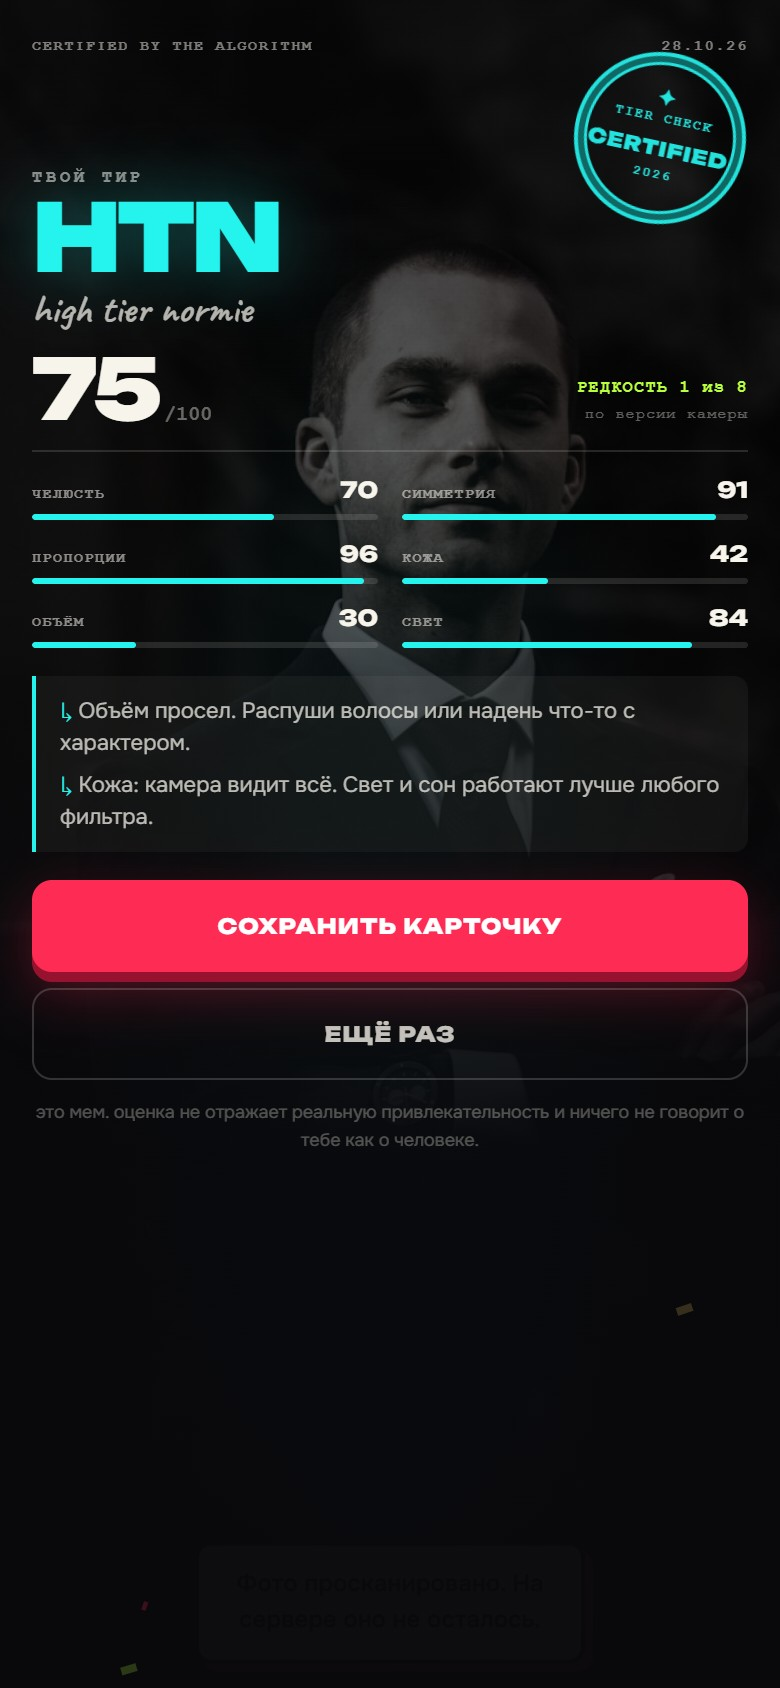
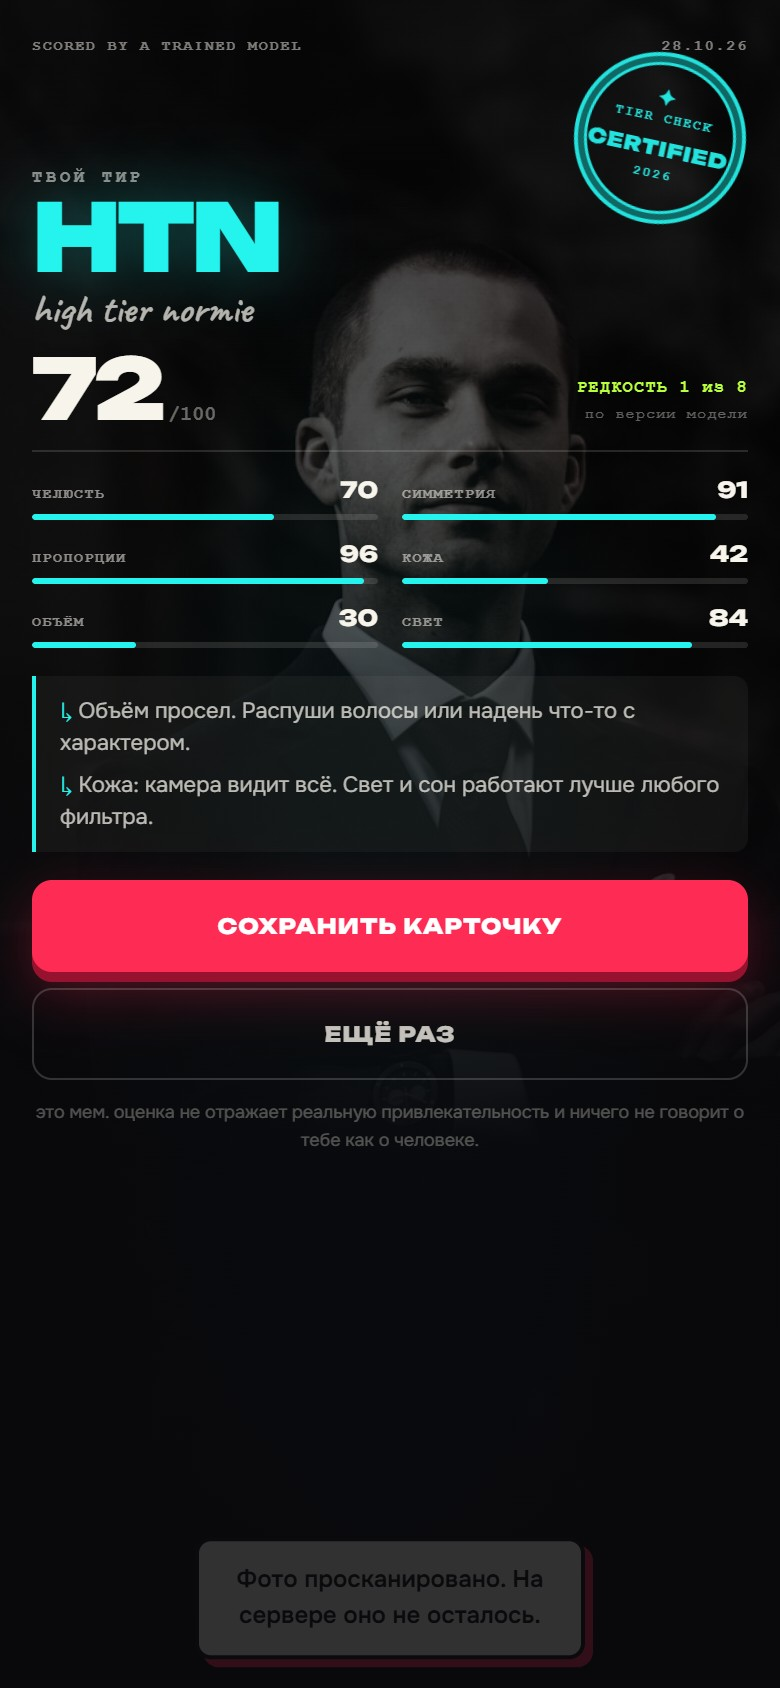
docs: document trained scoring model and refresh UI

diff --git a/app/static/index.html b/app/static/index.html
@@ -384,7 +384,7 @@
             <div class="result-shade" aria-hidden="true"></div>
             <div class="result-scroll" id="resultScroll">
               <div class="result-topline">
-                <span>CERTIFIED BY THE ALGORITHM</span>
+                <span>SCORED BY A TRAINED MODEL</span>
                 <span id="resultDate">01.01.26</span>
               </div>
               <div class="stamp" id="resultStamp" aria-hidden="true">
@@ -400,7 +400,7 @@
                 <div class="score-big"><span id="resultScore">0</span><small>/100</small></div>
                 <div class="score-meta">
                   <span id="resultRarity">—</span>
-                  <span>по версии камеры</span>
+                  <span>по версии модели</span>
                 </div>
               </div>
               <div class="result-stats" id="resultStats"></div>
@@ -441,7 +441,7 @@
   <footer class="footer">
     <div>
       <strong>TIER CHECK</strong>
-      <span>мем-сканер лица на Python + FastAPI + OpenCV</span>
+      <span>мем-сканер лица на Python + FastAPI + OpenCV + NumPy</span>
     </div>
     <div class="footer-right">
       <span>фото не сохраняется на сервере</span>

diff --git a/app/static/app.js b/app/static/app.js
@@ -946,7 +946,7 @@
     ctx.fillText("Это мем, а не диагноз. Оценка не отражает реальную привлекательность.", 64, height - 76);
     ctx.fillStyle = color;
     ctx.font = '700 20px "Courier New", monospace';
-    ctx.fillText("TIERCHECK · FASTAPI + OPENCV", 64, height - 40);
+    ctx.fillText("TIERCHECK · TRAINED NUMPY MODEL", 64, height - 40);
 
     return offscreen;
   }

diff --git a/docs/scoring.md b/docs/scoring.md
@@ -1,0 +1,148 @@
+# Модель оценки TIER CHECK
+
+Версия модели: **`tier-check-score-1.0.0`**  
+Версия рубрики: **`2026.10`**  
+Артефакты: [`app/models/score_model.npz`](../app/models/score_model.npz),
+[`app/models/score_model.json`](../app/models/score_model.json)  
+Скрипт обучения: [`training/train_score_model.py`](../training/train_score_model.py)
+
+> Это мем-приложение. Модель не оценивает реальную привлекательность человека,
+> не обучалась на фотографиях или человеческих оценках и не является медицинским
+> инструментом.
+
+## Зачем модель
+
+Раньше итоговый балл складывался из эвристик и стабильного хеш-джиттера. Из-за
+джиттера один и тот же кадр мог получить немного разные баллы, а формула выглядела
+как случайность. Теперь:
+
+1. Шесть метрик считаются по изображению (см. ниже).
+2. Метрики округляются до целых — ровно те числа, которые видит пользователь.
+3. Обученная NumPy-модель превращает эти шесть чисел в балл `1…100`.
+4. Балл детерминирован: одинаковые шесть чисел всегда дают одинаковый результат.
+   Хешей, seed и случайного джиттера в оценке больше нет.
+
+## Шесть метрик
+
+| Ключ | Подпись | Вес | Что измеряет изображение |
+| --- | --- | ---: | --- |
+| `jaw` | ЧЕЛЮСТЬ | 24% | контраст линии подбородка и нижней трети |
+| `symmetry` | СИММЕТРИЯ | 18% | смещение носа и рта относительно глаз |
+| `harmony` | ПРОПОРЦИИ | 22% | соотношение сторон лица, положение глаз и рта |
+| `skin` | КОЖА | 16% | текстура и равномерность света на щеках |
+| `hair` | ОБЪЁМ | 10% | края и текстура волос над лицом |
+| `light` | СВЕТ | 10% | яркость, контраст, пересветы и провалы |
+
+Все метрики нормированы в `0…100`. Они описывают **кадр**, а не человека:
+свет, ракурс, камера и причёска влияют на них сильнее любых реальных черт.
+
+## Публичная рубрика
+
+Рубрика — это «правила игры», по которым сгенерированы метки для обучения.
+Она специально простая и объяснимая.
+
+```text
+base        = 0.24*jaw + 0.18*symmetry + 0.22*harmony
+            + 0.16*skin + 0.10*hair + 0.10*light
+weakest     = min(jaw, symmetry, harmony, skin, hair, light)
+consistency = 2.5 * smoothstep(weakest, 25, 85)
+light_gate  = 0.82 + 0.18 * smoothstep(light, 12, 60)
+penalty     = max(0, 30 - weakest) * 0.18
+score       = 7 + 0.90 * (base + consistency) * light_gate - penalty
+score       = clip(score, 1, 99)
+```
+
+`Smoothstep(x, a, b)` — плавная S-образная функция от 0 до 1. Она даёт бонус за
+ровные метрики и мягко ограничивает вклад тёмного кадра.
+
+### Тировые предохранители
+
+Средний балл не должен прятать один проваленный параметр:
+
+- если самая слабая метрика **меньше 45**, балл ограничивается **81.9** —
+  в `CHAD` нельзя попасть с провалом;
+- если самая слабая метрика **меньше 65**, балл ограничивается **92.9** —
+  в `TRUE ADAM` нужны все шесть метрик на уровне.
+
+Предохранители применяются и к рубрике, и к выходу модели.
+
+## Нейросеть
+
+Модель — маленький полносвязный MLP:
+
+```text
+6 → 32 (ReLU) → 24 (ReLU) → 1
+```
+
+- Вход: шесть метрик, делённых на 100.
+- Выход: балл в долях единицы, умножается на 100 и обрезается до `1…99`.
+- Инференс: только NumPy, без PyTorch/TensorFlow и без внешних API.
+- Параметры: `w1, b1, w2, b2, w3, b3, feature_scale` в `score_model.npz`.
+- Метаданные и модельная карта: `score_model.json`.
+
+Модель учится **воспроизводить рубрику**, а не угадывать человеческую красоту.
+Это компактная и стабильная аппроксимация формулы, которую можно объяснить.
+
+## Обучение
+
+| Параметр | Значение |
+| --- | --- |
+| Обучающие данные | 80 000 синтетических векторов из шести метрик |
+| Метки | баллы публичной рубрики |
+| Разбиение | 60 000 / 10 000 / 10 000 (train / val / test) |
+| Эпохи | 180 |
+| Батч | 512 |
+| Оптимизатор | Adam, learning rate `2e-3` |
+| Seed | `20261028` |
+| Функция потерь | MSE по нормированному баллу |
+
+Данные не содержат фотографий, имён, лиц или человеческих оценок
+привлекательности. Используются только синтетические числа, равномерное
+покрытие диапазона и краевые случаи (слабые/сильные наборы и «одна проваленная
+метрика»).
+
+Воспроизвести артефакты:
+
+```bash
+python -m training.train_score_model
+```
+
+Скрипт перезаписывает `app/models/score_model.npz`, `app/models/score_model.json`
+и `training/report.json`.
+
+## Метрики качества
+
+Результаты на отложенной тестовой выборке (10 000 векторов):
+
+| Метрика | Значение |
+| --- | ---: |
+| Test MAE | **0.215 балла** |
+| Максимальная абсолютная ошибка | **2.80 балла** |
+| R² | **0.9995** |
+| Локальные нарушения монотонности | 15 из 10 000 проверок |
+| Максимальное падение при улучшении метрики | **0.50 балла** |
+
+Модель практически монотонна: в 99.85% случайных проверок увеличение одной
+метрики не уменьшает балл. Остаточные отклонения — цена аппроксимации
+непрерывной формулы нейросетью; они детерминированы и ограничены половиной
+балла. Тест в `tests/test_scoring.py` требует, чтобы локальное падение было
+меньше одного балла.
+
+## Якорные значения
+
+| Набор метрик | Рубрика | Модель |
+| --- | ---: | ---: |
+| `[70, 91, 96, 42, 30, 84]` — демо-портрет | 72.2 | 71.5 |
+| `[70, 70, 70, 70, 70, 70]` — ровный средний | 71.9 | 71.6 |
+| `[20, 20, 20, 20, 20, 20]` — слабый кадр | 20.2 | 19.6 |
+| `[95, 95, 95, 95, 95, 95]` — элитный кадр | 94.8 | 95.2 |
+| `[95, 95, 95, 95, 95, 40]` — один провал | 81.9 | 81.9 |
+
+## Ограничения
+
+- Рубрика придумана для мема; у неё нет научного обоснования.
+- Метрики измеряют картинку, а не человека: свет и ракурс меняют балл.
+- Модель не проверялась на реальных людях и не подходит для решений о человеке.
+- Балл — не вероятность и не процент «красоты». Это игровое число `1…100`.
+- Модель аппроксимирует рубрику, поэтому возможны отклонения до ~3 баллов
+  и редкие локальные падения до 0.5 балла.

diff --git a/README.md b/README.md
@@ -3,9 +3,9 @@
 **Мем-сканер лица: одна фотка, семь тиров, ноль жалости.**
 
 TIER CHECK — это маленькое веб-приложение на Python, которое делает вид, что умеет
-оценивать лица по тир-листу из мемов. Внутри — FastAPI, OpenCV YuNet и набор
-эвристик. Снаружи — тёмный «тиктокерский» интерфейс, камера, мемные комментарии
-и карточка результата, которой можно поделиться.
+оценивать лица по тир-листу из мемов. Внутри — FastAPI, OpenCV YuNet и обученная
+NumPy-модель оценки. Снаружи — тёмный «тиктокерский» интерфейс, камера, мемные
+комментарии и карточка результата, которой можно поделиться.
 
 > **Это мем, а не диагноз.** Оценка не измеряет реальную привлекательность,
 > не говорит ничего о человеке и не должна восприниматься серьёзно.
@@ -18,6 +18,8 @@ TIER CHECK — это маленькое веб-приложение на Python
 - **Загрузка фото** — JPG, PNG или WEBP до 8 МБ, с drag-and-drop.
 - **Семь тиров** — от `SUB 3` до `TRUE ADAM`, как на мемной схеме.
 - **Разбор по шести параметрам** — челюсть, симметрия, пропорции, кожа, объём, свет.
+- **Обученная модель оценки** — небольшой NumPy-MLP превращает шесть метрик в
+  детерминированный балл `1…100`.
 - **Мемные заметки** — что алгоритм «увидел» и что с этим делать (спойлер: свет).
 - **Карточка результата** — PNG 1080×1350 для сторис, скачивается одной кнопкой.
 - **Локальная работа** — фото обрабатывается в памяти и никуда не сохраняется.
@@ -89,11 +91,14 @@ docker run --rm -p 8000:8000 tier-check
    | Объём | 10% | края и текстура волос над лицом |
    | Свет | 10% | яркость, контраст, пересветы |
 
-5. Итог: `13 + 0.85 × сумма` плюс стабильный джиттер ±1.5, затем обрезка до
-   диапазона `1…99.4`. Одинаковое фото даёт одинаковый результат.
+5. Числа округляются до целых и попадают в обученную NumPy-модель
+   `6 → 32 → 24 → 1`, которая выдаёт итоговый балл `1…100`.
+6. Балл детерминирован: одинаковые шесть чисел всегда дают одинаковый результат.
+   Хешей и случайного джиттера в оценке больше нет.
 
-Всё это — **эвристики для мема**, а не нейросеть, обученная оценивать красоту.
-Алгоритм легко обмануть светом, ракурсом и шириной кадра. В этом и смысл.
+Модель обучена воспроизводить придуманную рубрику на синтетических числах, а не
+оценивать человеческую красоту. Метрики описывают кадр, поэтому свет, ракурс и
+камера влияют на них сильнее реальных черт. Подробности: [`docs/scoring.md`](docs/scoring.md).
 
 ## Тиры
 
@@ -113,7 +118,7 @@ docker run --rm -p 8000:8000 tier-check
 
 | Метод | Путь | Назначение |
 | --- | --- | --- |
-| `GET` | `/api/health` | статус, версия, имя модели |
+| `GET` | `/api/health` | статус, версия, детектор и версия score-модели |
 | `GET` | `/api/tiers` | список тиров |
 | `POST` | `/api/rate` | анализ изображения |
 
@@ -125,8 +130,8 @@ docker run --rm -p 8000:8000 tier-check
 }
 ```
 
-Ответ содержит `score`, `tier`, шесть `stats`, `notes`, `face_box`, `confidence`
-и дисклеймер. Ошибки: `422` — плохое изображение или лицо не найдено,
+Ответ содержит `score`, `tier`, шесть `stats`, `notes`, `face_box`, `confidence`,
+`scoring_model` и дисклеймер. Ошибки: `422` — плохое изображение или лицо не найдено,
 `413` — тело запроса больше 8 МБ, `503` — модель не загрузилась.
 
 Интерактивная документация: `http://127.0.0.1:8000/docs`.
@@ -145,13 +150,15 @@ docker run --rm -p 8000:8000 tier-check
 
 ```text
 app/
-  analyzer.py        # детекция лица, эвристики, заметки
+  analyzer.py        # детекция лица, шесть метрик, заметки
+  scoring.py         # рубрика, тировые предохранители, инференс модели
   tiers.py           # семь тиров и границы
   main.py            # FastAPI, API, статика
   __main__.py        # python -m app
-  models/            # YuNet ONNX + лицензия
+  models/            # YuNet ONNX + score_model.npz/json + лицензия
   static/            # index.html, styles.css, app.js, favicon, og.png
-tests/               # pytest: API, анализатор, тиры
+training/            # генерация данных и обучение score-модели
+tests/               # pytest: API, анализатор, тиры, скоринг
 start.bat            # запуск в один клик для Windows
 Dockerfile
 ```
@@ -164,15 +171,27 @@ ruff check .
 pytest
 ```
 
-Сейчас: **42 теста**, `ruff` без замечаний.
+Сейчас: **55 тестов**, `ruff` без замечаний.
 
-## Модель
+## Модели
 
 - **YuNet** (`face_detection_yunet_2026may.onnx`) — лёгкий детектор лиц из
   [OpenCV Zoo](https://github.com/opencv/opencv_zoo/tree/main/models/face_detection_yunet).
-- Автор: Shiqi Yu, лицензия MIT. Текст лицензии лежит в
+  Автор: Shiqi Yu, лицензия MIT. Текст лицензии лежит в
   [`app/models/LICENSE`](app/models/LICENSE).
-- Модель уже включена в репозиторий, отдельно скачивать ничего не нужно.
+- **TIER CHECK score model** (`score_model.npz`, `tier-check-score-1.0.0`) —
+  NumPy-MLP `6 → 32 → 24 → 1`, обученный локально на 80 000 синтетических
+  векторах метрик. Метки сгенерированы публичной рубрикой; фотографии и
+  человеческие оценки привлекательности не использовались.
+  Test MAE — `0.215` балла, R² — `0.9995`.
+  Модельная карта и ограничения: [`docs/scoring.md`](docs/scoring.md).
+
+Обе модели уже включены в репозиторий, отдельно скачивать ничего не нужно.
+Переобучить score-модель:
+
+```bash
+python -m training.train_score_model
+```
 
 ## Лицензия
 
